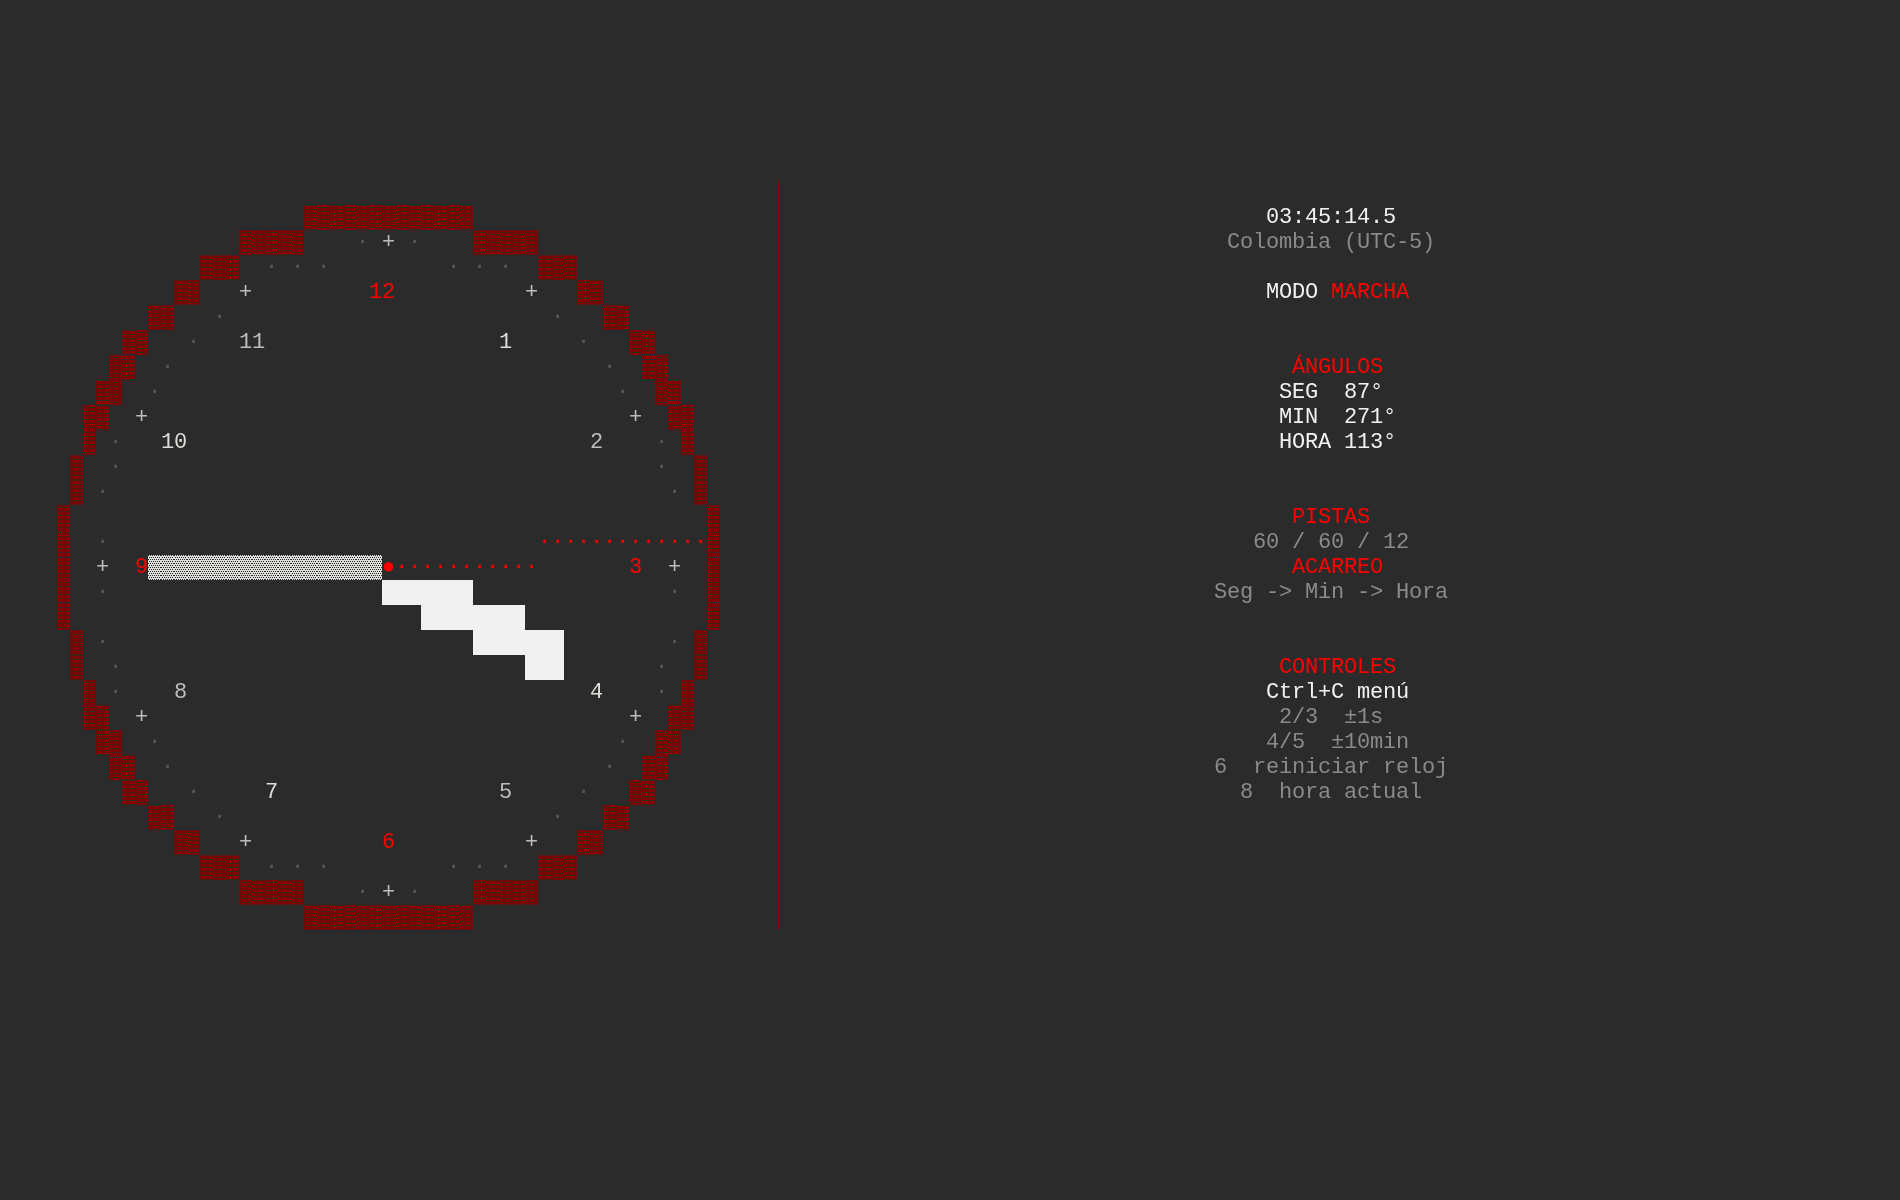
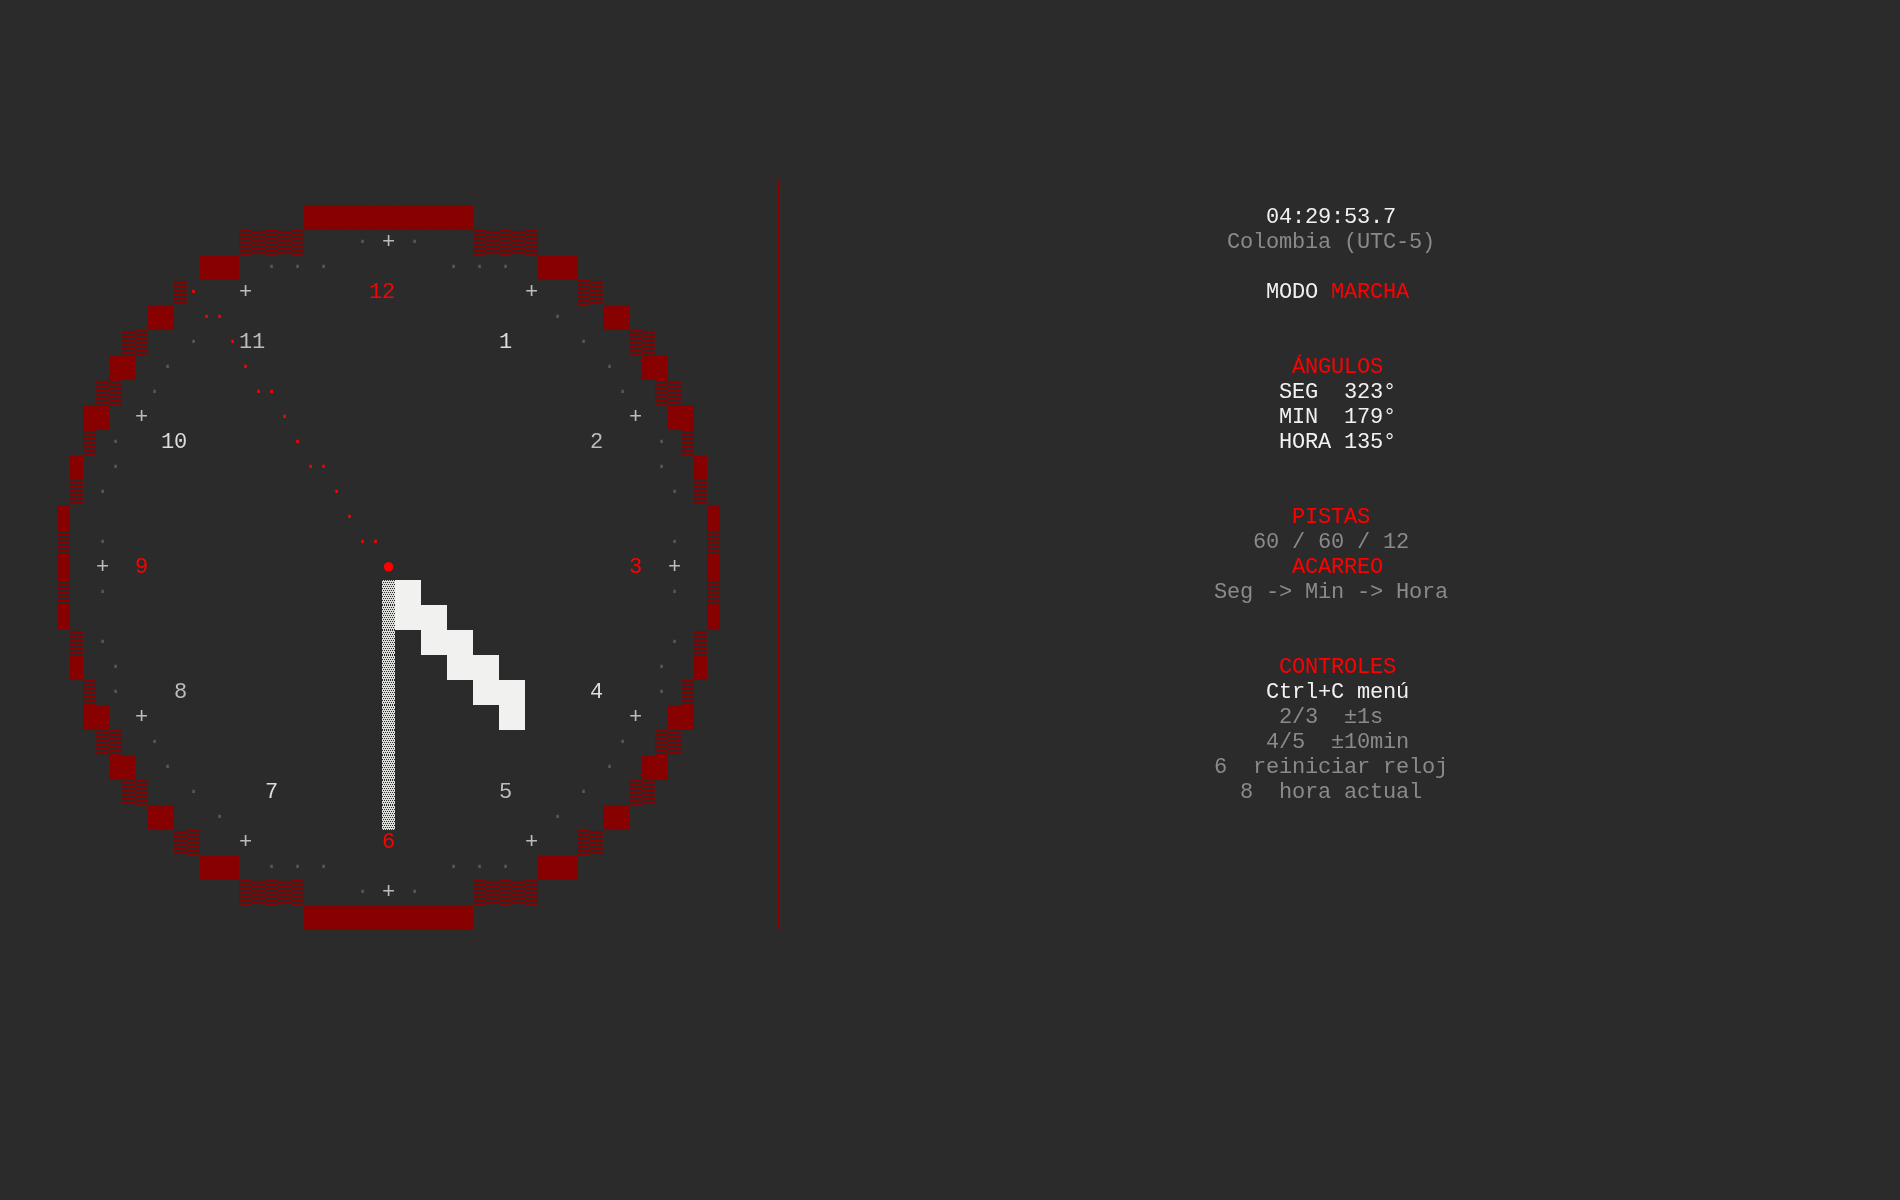
Validate single-digit menu input and refresh screenshots

Changed region(s): [[0.0621, 0.4625, 0.3105, 0.6783], [0.7142, 0.3392, 0.7453, 0.37], [0.6832, 0.1542, 0.7142, 0.185]]

diff --git a/clock_view.py b/clock_view.py
@@ -192,8 +192,8 @@ class ClockCanvasApp:
                 continue
             if not self.menu_mode:
                 continue
-            if choice not in ("1", "2", "3", "4", "5", "6", "7", "8", "9", "10"):
-                self.menu_error = "Solo se permite un número del 1 al 10"
+            if len(choice) != 1 or choice not in "0123456789":
+                self.menu_error = "Solo se permite un número del 0 al 9"
                 self._menu_prompt_ready = False
                 continue
             self.menu_error = ""
@@ -203,7 +203,7 @@ class ClockCanvasApp:
                 break
 
     def _handle_command(self, choice):
-        if choice == "" or choice == "1":
+        if choice == "1":
             self.menu_mode = False
             self.clock.start()
         elif choice == "2":
@@ -224,7 +224,7 @@ class ClockCanvasApp:
             self.menu_mode = False
         elif choice == "9":
             self.clock.chronometer.toggle(self._time_now())
-        elif choice == "10":
+        elif choice == "0":
             self.clock.chronometer.reset()
 
     def _enter_screen(self):
@@ -530,7 +530,7 @@ class ClockCanvasApp:
             "7 Redibujar",
             "8 Hora actual",
             "9 Cronómetro iniciar/pausar",
-            "10 Cronómetro reiniciar",
+            "0 Cronómetro reiniciar",
         )
         for offset, option in enumerate(options):
             self._panel_text(grid, colors, 9 + offset, option, COLOR_STATUS)
@@ -595,7 +595,7 @@ class ClockCanvasApp:
             print(
                 "\033[?1049h\033[2J\033[H"
                 + body
-                + "\nOpción (1-10): ",
+                + "\nOpción (0-9): ",
                 end="",
                 flush=True,
             )
@@ -660,7 +660,7 @@ class ClockCanvasApp:
                 "7 Redibujar",
                 "8 Hora actual",
                 "9 Cronómetro iniciar/pausar",
-                "10 Cronómetro reiniciar",
+                "0 Cronómetro reiniciar",
             )
             for offset, option in enumerate(options):
                 self._centered_text(
@@ -673,7 +673,7 @@ class ClockCanvasApp:
                 "4 +10min     5 -10min",
                 "6 Reiniciar reloj",
                 "7 Redibujar   8 Hora actual",
-                "9 Cronómetro  10 Reset",
+                "9 Cronómetro   0 Reset",
             )
             for offset, option in enumerate(options):
                 self._centered_text(

diff --git a/README.md b/README.md
@@ -44,11 +44,11 @@ Al abrir, el reloj inicia en marcha automática en hora Colombia (UTC-5). Las ma
 - `7`: redibujar.
 - `8`: volver a la hora actual.
 - `9`: iniciar/pausar el cronómetro.
-- `10`: reiniciar el cronómetro.
+- `0`: reiniciar el cronómetro.
 
 El reloj sigue avanzando mientras el menú está abierto. El cronómetro se muestra y controla en el menú, no en la pantalla principal. Para terminar, cierra la pestaña o la terminal.
 
-Solo se aceptan números del 1 al 10. Cualquier otra entrada muestra un aviso. Haz clic dentro de la terminal para que el teclado funcione.
+Solo se acepta un dígito del 0 al 9. No se aceptan letras ni varios números. Cualquier otra entrada muestra un aviso. Haz clic dentro de la terminal para que el teclado funcione.
 
 ## Despliegue
 
